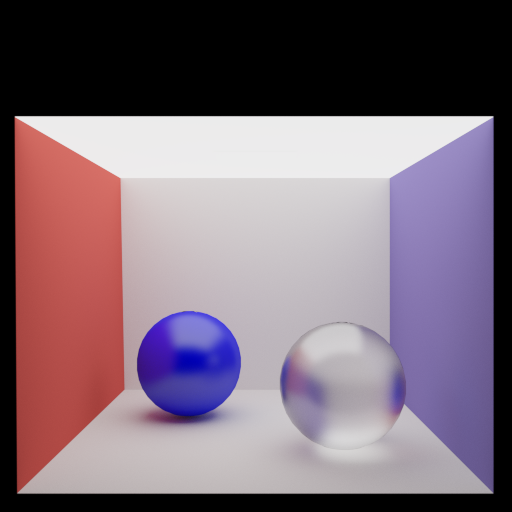
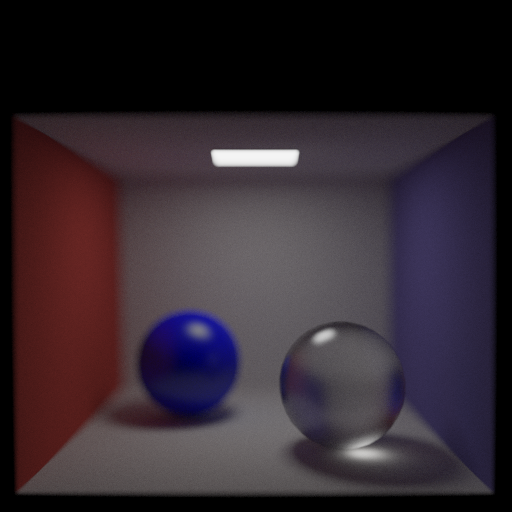
dof

diff --git a/pathtracer.cpp b/pathtracer.cpp
@@ -1,4 +1,4 @@
-#include "pathtracer.h"
+#include "pathtracer.h"
 
 #include <iostream>
 
@@ -18,60 +18,45 @@ PathTracer::PathTracer(int width, int height)
 
 void PathTracer::traceScene(QRgb *imageData, const Scene& scene)
 {
+
+    auto to_glm = [](auto&& x) { return glm::vec3{ x[0], x[1], x[2] }; };
+
+    using CameraType = struct {
+        glm::vec3 Position;
+        glm::vec3 Look;
+        glm::vec3 Up;
+        double HeightAngle;
+        double FocalLength;
+        double Aperture;
+    };
+    auto Camera = CameraType{
+        .Position = to_glm(scene.m_camera.m_position),
+        .Look = glm::normalize(to_glm(scene.m_camera.m_direction)),
+        .Up = glm::normalize(to_glm(scene.m_camera.m_up)),
+        .HeightAngle = glm::radians(scene.m_camera.m_heightAngle),
+        .FocalLength = 3.2,
+        .Aperture = 0.3
+    };
+    auto PixelAggregator = ViewPlane::ConfigurePixelAggregator(
+        [&](auto&& eye, auto&& dir) { return Ray::Trace(eye, dir, scene); },
+        ViewPlane::ConfigureRayCaster(Camera, IMAGE_WIDTH, IMAGE_HEIGHT),
+        25000,
+        0.5
+    );
+
     std::vector<Vector3f> intensityValues(m_width * m_height);
-    Matrix4f invViewMat = (scene.getCamera().getScaleMatrix() * scene.getCamera().getViewMatrix()).inverse();
+    
     for(int y = 0; y < m_height; ++y) {
         //#pragma omp parallel for
         for(int x = 0; x < m_width; ++x) {
+            std::cout << "x = " << x << " y = " << y << std::endl;
             int offset = x + (y * m_width);
-            intensityValues[offset] = tracePixel(x, y, scene, invViewMat);
+            auto color = PixelAggregator(x, y);
+            intensityValues[offset] = Vector3f{ color[0], color[1], color[2] };
         }
     }
 
     toneMap(imageData, intensityValues);
-}
-
-Vector3f PathTracer::tracePixel(int x, int y, const Scene& scene, const Matrix4f &invViewMatrix)
-{
-    auto n_samples = 25000;
-    static auto sigma = 0.5;
-
-    static auto rd = std::random_device{};
-    static auto gen = std::mt19937{ rd() };
-    static auto randn = std::normal_distribution{ 0., sigma };
-
-    Vector3f p(0, 0, 0);
-    auto res = Vector3f{ 0, 0, 0 };
-    auto w_sum = 0.;
-
-    std::cout << "x = " << x << " y = " << y << std::endl;
-
-    for (auto i = 0; i < n_samples; ++i) {
-        auto xx = randn(gen);
-        auto yy = randn(gen);
-        auto w = std::exp(-(xx * xx + yy * yy) / (2 * sigma * sigma));
-
-        w_sum += w;
-
-        auto d = Vector3f{ (2.f * (x + xx) / m_width) - 1, 1 - (2.f * (y + yy) / m_height), -1 };
-        d.normalize();
-
-        auto r = _Ray(p, d);
-        r = r.transform(invViewMatrix);
-
-        auto intensity = traceRay(r, scene);
-        res += intensity * w;
-    }
-
-    return res / w_sum;
-}
-
-Vector3f PathTracer::traceRay(const _Ray& r, const Scene& scene)
-{
-    auto eye = glm::vec3{ r.o[0], r.o[1], r.o[2] };
-    auto dir = glm::vec3{ r.d[0], r.d[1], r.d[2] };
-    auto color = Ray::Trace(eye, dir, scene);
-    return Vector3f{ color[0], color[1], color[2] };
 }
 
 void PathTracer::toneMap(QRgb* imageData, std::vector<Vector3f>& intensityValues) {

diff --git a/pathtracer.h b/pathtracer.h
@@ -17,9 +17,6 @@ private:
     int m_width, m_height;
 
     void toneMap(QRgb *imageData, std::vector<Eigen::Vector3f> &intensityValues);
-
-    Eigen::Vector3f tracePixel(int x, int y, const Scene &scene, const Eigen::Matrix4f &invViewMatrix);
-    Eigen::Vector3f traceRay(const _Ray& r, const Scene &scene);
 };
 
 #endif // PATHTRACER_H

diff --git a/scene/basiccamera.h b/scene/basiccamera.h
@@ -11,7 +11,7 @@ public:
 
     virtual Eigen::Matrix4f getViewMatrix() const;
     virtual Eigen::Matrix4f getScaleMatrix() const;
-private:
+public:
     Eigen::Vector3f m_position;
     Eigen::Vector3f m_direction;
     Eigen::Vector3f m_up;

diff --git a/scene/scene.h b/scene/scene.h
@@ -35,7 +35,7 @@ public:
 
     bool getIntersection(const _Ray& ray, IntersectionInfo* I) const;
 
-private:
+public:
 
     BVH *m_bvh;
     std::vector<Object *> *_objects;

diff --git a/README.md b/README.md
@@ -1,1 +1,19 @@
+# Features #
+- Unbiased Monte Carlo path tracing
+- Global illumination: diffuse interreflection (color bleed), soft shadows, caustics, ambient occlusion, indirect lighting, etc.
+- Anti-aliased sampling (Gaussian kernel)
+- Finite-size lens (depth of field)
+- Multiple materials
+ - emissive
+ - diffuse
+ - specular metal
+ - specular glass
+ - rough metal
+ - frosted glass
+ - plastic/porcelain (diffuse + specular/glossy reflection)
+- (Multiple) importance sampling for each material
+ - Power heuristics
+- Fresnel for dielectrics
+- Russian roulette path selection/termination
+
 ![](a.png)
